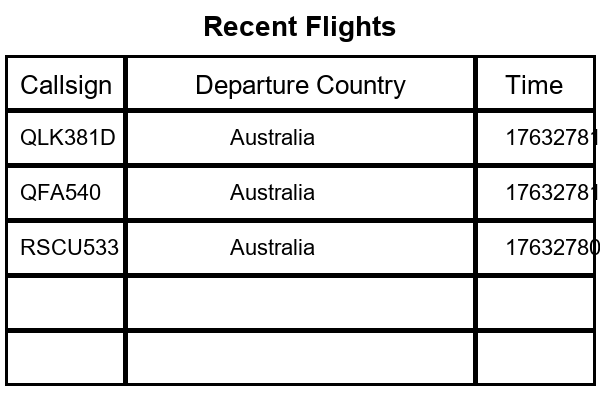
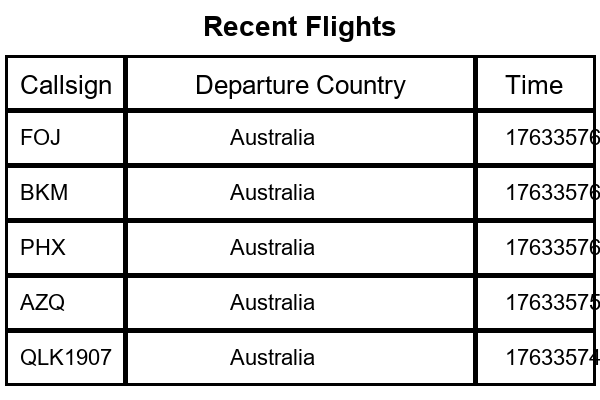
History screen now using global variableto svae recent flights

diff --git a/src/main.py b/src/main.py
@@ -28,12 +28,12 @@ def main():
     }
 
     #flight details for testing list, calsign, lat, lon, pixX, pixY, Origin, Time (Unix)
-    flights = [["VOC290", -27.44, 153.0, 0, 0, "Australia", 18000],
-               ["VOC291", -27.48, 153.15, 0, 0, "Singapore", 27000],
-               ["VOC292", -27.5, 153.12, 0, 0, "Brasil", 27000],
-               ["VOC293", -27.54, 153.16, 0, 0, "England", 27000],
-               ["VOC294", -27.56, 153.0, 0, 0, "New Zealand", 27000],
-               ["VOC295", -27.5, 153.1, 0, 0, "Mexico", 27000],]
+    # flights = [["VOC290", -27.44, 153.0, 0, 0, "Australia", 18000],
+    #            ["VOC291", -27.48, 153.15, 0, 0, "Singapore", 27000],
+    #            ["VOC292", -27.5, 153.12, 0, 0, "Brasil", 27000],
+    #            ["VOC293", -27.54, 153.16, 0, 0, "England", 27000],
+    #            ["VOC294", -27.56, 153.0, 0, 0, "New Zealand", 27000],
+    #            ["VOC295", -27.5, 153.1, 0, 0, "Mexico", 27000],]
 
 
     # Add your OpenSky Network credentials
@@ -45,23 +45,23 @@ def main():
 
     while True:
         # #clear/ instantiate lists
-        # flights = []
+        flights = []
 
-        # #call API
-        # data = get_states(params=params, username=username, password=password)
+        #call API
+        data = get_states(params=params, username=username, password=password)
 
-        # #if response parse wanted data to Flights list
-        # if data:
-        #     print("Successful Get")
-        #     print("API Response (JSON):")
-        #     print(data)
-        #     #callsigns = [state[1].strip() for state in data['states'] if state[1].strip() != "NoCallsign"]
-        #     flights = [
-        #         [state[1].strip(), state[6], state[5], 0, 0, state[2].strip(), state[3]]
-        #         for state in data['states']
-        #         if state[1].strip() != "NoCallsign" and state[6] != "NoLat" and state[5] != "NoLon"
-        #     ]
-        #     print(flights)
+        #if response parse wanted data to Flights list
+        if data:
+            print("Successful Get")
+            print("API Response (JSON):")
+            print(data)
+            #callsigns = [state[1].strip() for state in data['states'] if state[1].strip() != "NoCallsign"]
+            flights = [
+                [state[1].strip(), state[6], state[5], 0, 0, state[2].strip(), state[3]]
+                for state in data['states']
+                if state[1].strip() != "NoCallsign" and state[6] != "NoLat" and state[5] != "NoLon"
+            ]
+            print(flights)
         
         for plane in flights:
             #convert lon/lat to pixelcoords

diff --git a/src/Services/history.py b/src/Services/history.py
@@ -1,5 +1,8 @@
 from PIL import Image, ImageDraw, ImageFont
 
+# Initialize recent_flight as a global variable
+recent_flight = []
+
 def generateHistory(flights):
     # Example data (from API)
     # flights = [
@@ -14,17 +17,17 @@ def generateHistory(flights):
     # flights = [["VOC290", -27.44, 153.0, 0, 0, "", 0],
 
     #recent history list
-    recent_flight = []
+    global recent_flight
 
     for plane in flights:
-        # skip if callsign already exists
+        # Skip if callsign already exists
         if any(plane[0] == records[0] for records in recent_flight):
             continue
 
-        #insert Callsign, Origin and Time from flights
+        # Insert Callsign, Origin, and Time from flights
         recent_flight.insert(0, (plane[0], plane[5], plane[6]))
 
-        #shorten list if it is longer than 5
+        # Shorten list if it is longer than 5
         if len(recent_flight) > 5:
             recent_flight = recent_flight[:5]
     
@@ -64,26 +67,26 @@ def generateHistory(flights):
     title_w, title_h = get_text_size(title, header_font)
     draw.text(((img_width - title_w) / 2, 10), title, font=header_font, fill="black")
 
-    #draw callsign rows
+    # Draw callsign rows
     y_increment = [0, 55, 110, 165, 220, 275, 330]
     x = 5
     y = 55
     x1 = 125
     x2 = 475
     for i in range(6):
-        draw.rectangle([x, y + y_increment[i] , x + cell_widths[0], y + row_height + y_increment[i]], outline="black", width=3)
-        draw.rectangle([x1, y + y_increment[i] , x1 + cell_widths[1], y + row_height + y_increment[i]], outline="black", width=3)
-        draw.rectangle([x2, y + y_increment[i] , x2 + cell_widths[2], y + row_height + y_increment[i]], outline="black", width=3)
+        draw.rectangle([x, y + y_increment[i], x + cell_widths[0], y + row_height + y_increment[i]], outline="black", width=3)
+        draw.rectangle([x1, y + y_increment[i], x1 + cell_widths[1], y + row_height + y_increment[i]], outline="black", width=3)
+        draw.rectangle([x2, y + y_increment[i], x2 + cell_widths[2], y + row_height + y_increment[i]], outline="black", width=3)
 
     # Table headers
     headers = ["Callsign", "Departure Country", "Time"]
     
-    #header text
+    # Header text
     header_x_pos = [15, 190, 500]
     for i, header in enumerate(headers):
         draw.text([x + header_x_pos[i], y + 15], header, font=cell_header, fill="black")
 
-    #API Text
+    # API Text
     data_x_pos = [15, 225, 500]
     data_y_pos = [125, 180, 235, 290, 345]
     for i, plane in enumerate(recent_flight):

diff --git a/src/Display/activeImg.py b/src/Display/activeImg.py
@@ -7,6 +7,7 @@ def setImage(flights, displayCount):
     
     if len(flights) > 0 and displayCount < 10:
         generateMap(flights)
+        generateHistory(flights)
         displayCount = displayCount + 1
     else:
         generateHistory(flights)
